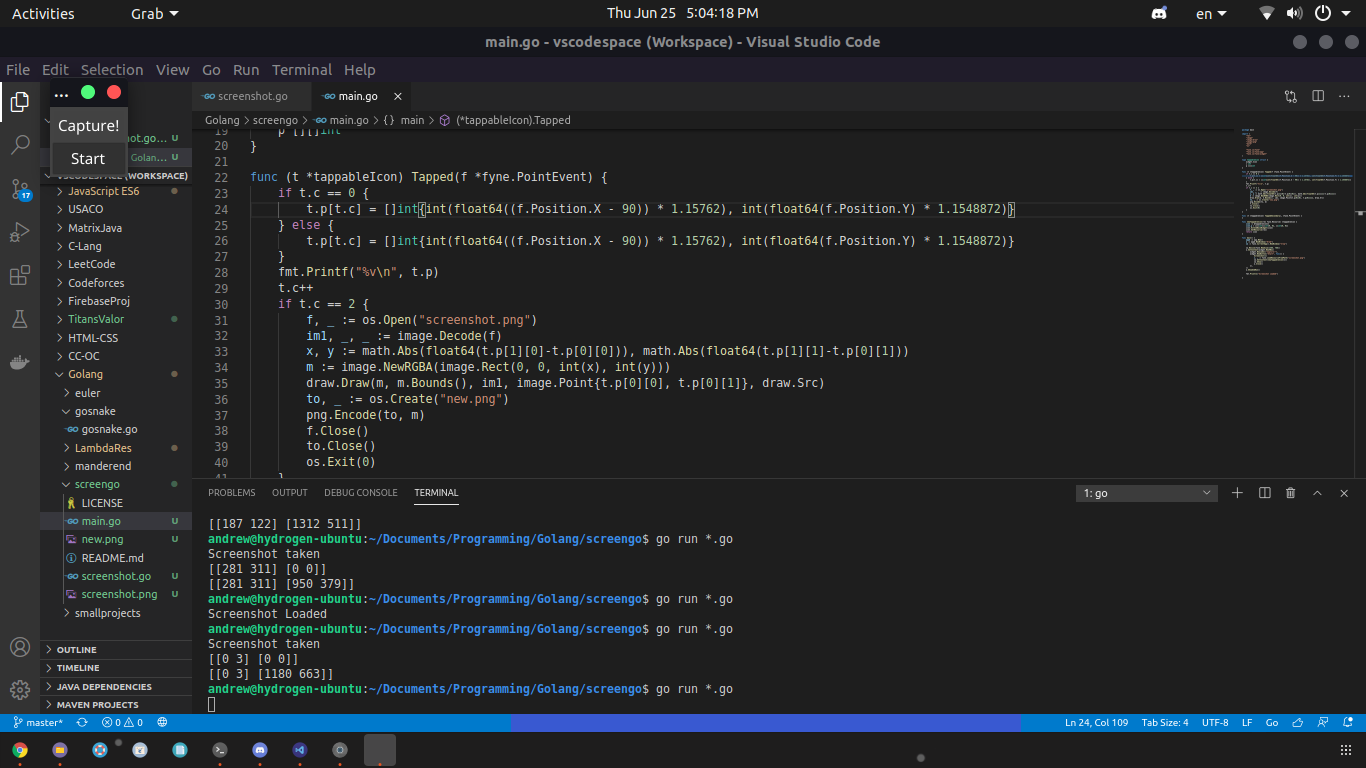
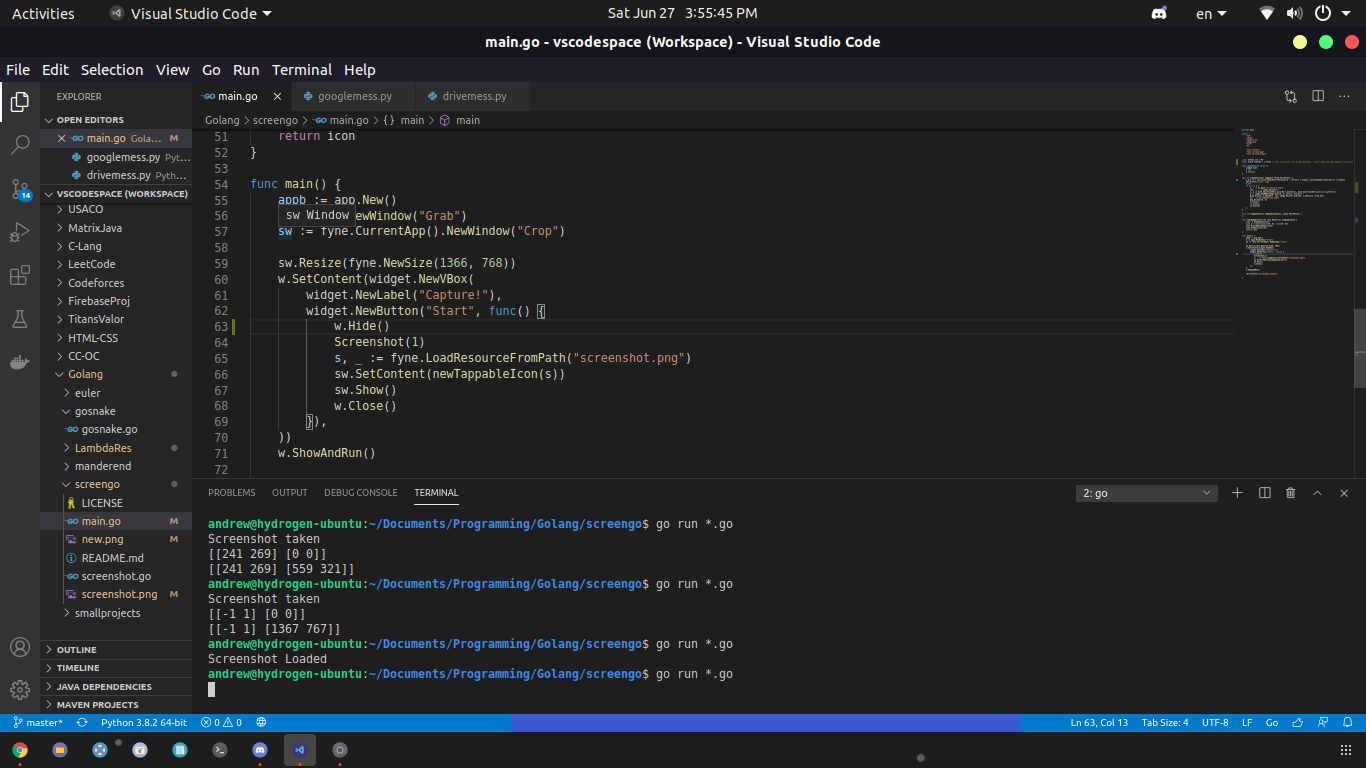
Add hide window

diff --git a/main.go b/main.go
@@ -13,6 +13,9 @@ import (
 	"fyne.io/fyne/widget"
 )
 
+const offset int = 90
+const scale float64 = 1.15762 // this value with vary across machines, I don't know how fyne handles scaling of images
+
 type tappableIcon struct {
 	widget.Icon
 	c int
@@ -20,7 +23,7 @@ type tappableIcon struct {
 }
 
 func (t *tappableIcon) Tapped(f *fyne.PointEvent) {
-	t.p[t.c] = []int{int(float64((f.Position.X - 90)) * 1.15762), int(float64(f.Position.Y) * 1.1548872)}
+	t.p[t.c] = []int{int(float64((f.Position.X - offset)) * scale), int(float64(f.Position.Y) * scale)}
 	fmt.Printf("%v\n", t.p)
 	t.c++
 	if t.c == 2 {
@@ -57,6 +60,7 @@ func main() {
 	w.SetContent(widget.NewVBox(
 		widget.NewLabel("Capture!"),
 		widget.NewButton("Start", func() {
+			w.Hide()
 			Screenshot(1)
 			s, _ := fyne.LoadResourceFromPath("screenshot.png")
 			sw.SetContent(newTappableIcon(s))
